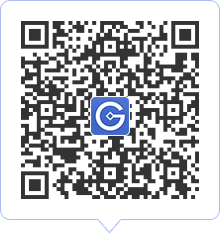
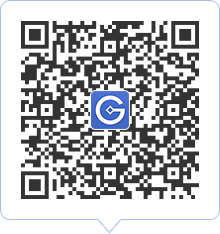
2016年6月8日16:44:56
官网添加新需求

Changed region(s): [[0.0818, 0.0897, 0.9273, 0.8675]]

diff --git a/src/index.html b/src/index.html
@@ -38,14 +38,14 @@
                     <p>果仁宝系列产品具有丰富的消费场景，随买随花的灵活特色，同时具有安全，稳健的理财属性。
 </p>
                     <div class="android_a_img">
-                        <a href="javascript:void(0);" class="android_a">Android 1.2.0 立即下载</a>
+                        <a href="javascript:void(0);" class="android_a">Android 1.2.1 立即下载</a>
                         <img src="./image/gw_ewm_android.png" class="androidimg">
                     </div>
                     <div class="ios_a_img">
-                        <a href="javascript:void(0);" class="ios_a">iOS 1.2.0 立即下载</a>
+                        <a href="javascript:void(0);" class="ios_a">iOS 1.2.1 立即下载</a>
                         <img src="./image/gw_ewm_ios.png" class="iosimg">
                     </div>
-                    <a href="http://static-10021365.file.myqcloud.com/apk/GuoRenBao_1.2.0_2016-05-31_pc-offical.apk" class="download_a">下载安装文件到电脑</a>
+                    <a href="http://static-10021365.file.myqcloud.com/apk/GuoRenBao_1.2.1_2016_06_07-pc_official.apk" class="download_a">下载安装文件到电脑</a>
                 </div>
                 <div class="intro1_right_img">
                 </div>

diff --git a/src/css/index.css b/src/css/index.css
@@ -692,6 +692,10 @@ body {
     color: white;
 }
 
+.intro4_p {
+    opacity:0.7;
+}
+
 .intro_n_wrapper {
     max-width: 1200px;
     margin: 0 auto;
